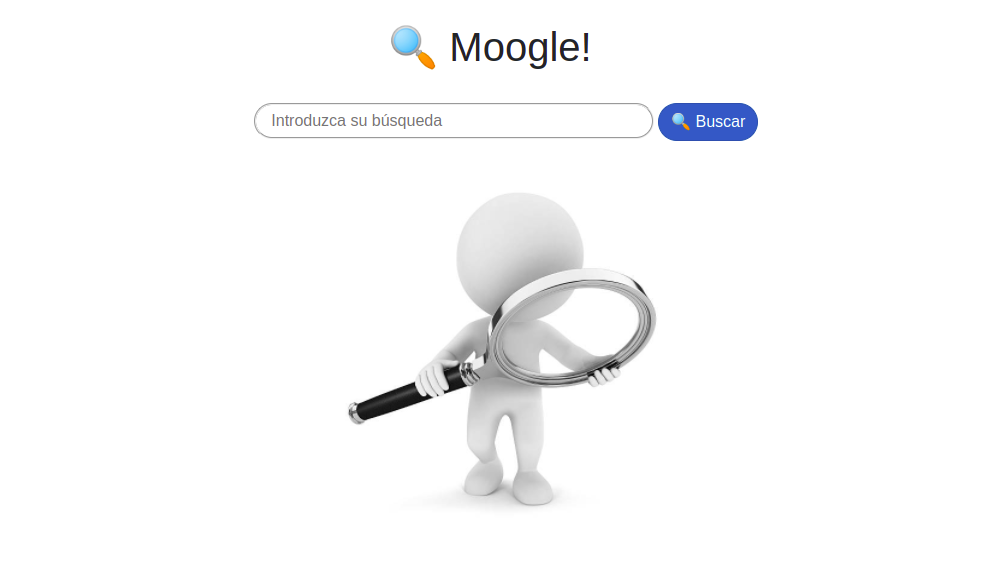
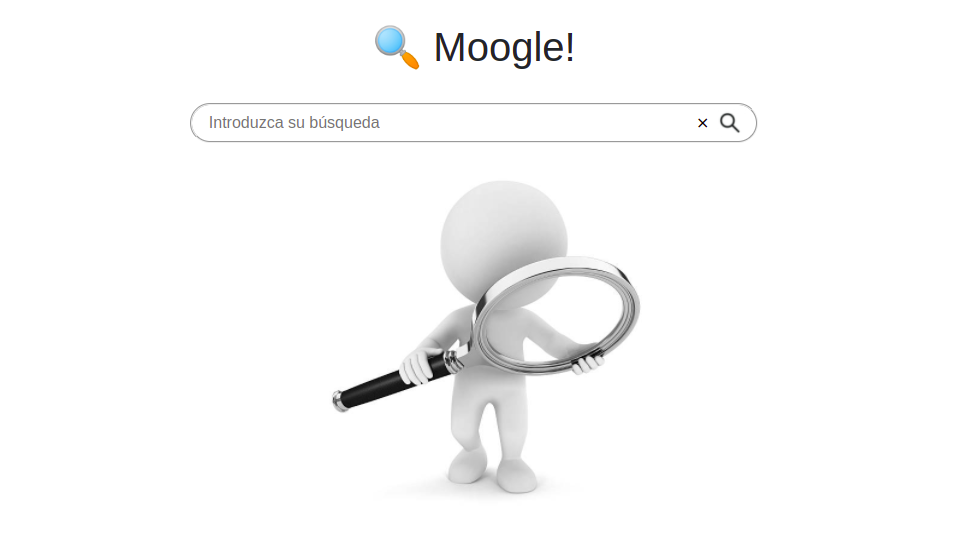
Interfaz mejorada

Changed region(s): [[0.3326, 0.3852, 0.6653, 0.9185], [0.2117, 0.1778, 0.7862, 0.2667], [0.3931, 0.0296, 0.6048, 0.1481]]

diff --git a/MoogleServer/wwwroot/css/site.css b/MoogleServer/wwwroot/css/site.css
@@ -9,16 +9,48 @@ h1:focus {
     outline: none;
 }
 
-
+.search{
+    margin-top: 24px;
+    margin-bottom: 24px;
+    border-top-left-radius: 50px; 
+    border-bottom-left-radius: 50px; 
+    width:500px;
+    height:40px;
+    text-indent: 3%; 
+    border-left: groove 2px;
+    border-top: groove 2px;
+    border-bottom: groove 2px;
+    border-right: groove 0px;
+    outline: none;
+}
 
 a, .btn-link {
     color: #0071c1;
 }
 
-.btn-primary {
-    color: #fff;
-    background-color: #1b6ec2;
-    border-color: #1861ac;
+.btn-search{
+    background-color: #fff;
+    border-top-right-radius: 50px;
+    border-bottom-right-radius: 50px; 
+    margin-top:24px;
+    margin-bottom:24px; 
+    border-left: 0px;
+    border-top: groove 2px;
+    border-bottom: groove 2px;
+    border-right: groove 2px;
+    height:40px;
+    width: 50px;
+}
+
+.btn-eliminate{
+    background-color: #fff;
+    margin-top: 24px;
+    margin-bottom: 24px;  
+    border-left: 0px;
+    border-top: groove 2px;
+    border-bottom: groove 2px;
+    border-right: 0px;
+    width: 18px;
 }
 
 .content {

diff --git a/MoogleEngine/Document_Result.cs b/MoogleEngine/Document_Result.cs
@@ -213,14 +213,28 @@ public class Document_Result
                 {
                     int cant_words_snippet = 0;
                     StringBuilder sb = new StringBuilder();
-                    for (int w = j; w < linea.Length; w++)
+                    bool nextline = linea_ind < doc.Length - 1;
+                    int pos = j;
+                    //Determinamos si es necesario coger palabras anteriores a la posicion indicada
+                    if(nextline)
+                    {
+                        if(doc[linea_ind+1]=="" && linea.Length - j < 20) 
+                        {
+                            pos=(j < 5) ? 0 : j - 5;
+                        }
+                    }
+                    else if(linea.Length - j < 20)
+                    {
+                        pos=(j < 5) ? 0 : j-5;
+                    }
+                    for (int w = pos; w < linea.Length; w++)
                     {
                         sb.Append(linea[w] + " ");
                         cant_words_snippet++;
                         if (cant_words_snippet == Snippet_len) break;
                     }
                     //Si no hemos alcanzado la longitud de nuestro snippet vamos a la linea siguiente
-                    if (cant_words_snippet < Snippet_len && linea_ind < doc.Length - 1)
+                    if (cant_words_snippet < Snippet_len && nextline)
                     {
                         int ind = linea_ind + 1;
                         if (doc[linea_ind + 1] == "" && linea_ind < doc.Length - 2)
@@ -238,7 +252,7 @@ public class Document_Result
                     //Guardamos el snippet
                     addSnippet[i] = sb.ToString();
                     addposSnippet[i] = linea_ind;
-                    //Comprobamos el proximi indice
+                    //Comprobamos el proximo indice
                     i++;
                 }
                 if(i==Snippetwords.Count) break; 

diff --git a/Project Report.md b/Project Report.md
@@ -10,7 +10,7 @@
 
 ### Algoritmos de Búsqueda
 
-La búsqueda esta basada en el modelo vectorial de recuperación de la información *SRI*, utilizando el *TF-IDF* (frecuencia de término - frecuencia inversa de documento), el cual expresa la relevancia de una palabra asociada a un documento en una determinada colección, sumado a la *Similitud del Coseno*, método mediante el cual se asigna un *Score* a cada documento y se establece un ranking de resultados para el usuario.
+La búsqueda está basada en el modelo vectorial de recuperación de la información *SRI*, utilizando el *TF-IDF* (frecuencia de término - frecuencia inversa de documento), el cual determina la relevancia de una palabra asociada a un documento en una determinada colección, sumado a la *Similitud del Coseno*, método mediante el cual se asigna un *Score* a cada documento y se establece un ranking de resultados para el usuario.
 
 ### Operadores
 
@@ -25,7 +25,7 @@ El proyecto cuenta con varios operadores para mejorar la búsqueda del usuario:
 
 ### Sugerencia
 
-Para brindar una mayor exactitud a la búsqueda, el proyecto cuenta con un corrector de palabras, el cual se encarga de dar una sugerencia al usuario en caso de que la búsqueda no sea del todo correcta para los datos almacenados.
+Para brindar una mayor exactitud en la búsqueda, el proyecto cuenta con un corrector de palabras, el cual se encarga de dar una sugerencia al usuario en caso de que la búsqueda no coincida con los datos almacenados.
 
 ### Resultados de la Búsqueda
 
@@ -33,22 +33,22 @@ Una vez rankeados los documentos, se le muestra al usuario una lista de los mism
 
 ### Ejecutando el proyecto
 
-- Debes colocar los documentos en los que quieres desarrollar la búsqueda, en la carpeta
+- Debe colocar los documentos en los que quiere desarrollar la búsqueda, en la carpeta
 `Content`, en formato `.txt`.  
 
-- Este proyecto está desarrollado para la versión objetivo de .NET Core 6.0. Para ejecutarlo solo te debes parar en la carpeta del proyecto y ejecutar en la terminal de Linux:
+- Este proyecto está desarrollado para la versión objetivo de .NET Core 6.0. Para ejecutarlo debe ir a la ruta en la que está ubicada el proyecto y ejecutar en la terminal de Linux:
 
 ```bash
 make dev
 ```
 
-- Si estás en Windows, debes poder hacer lo mismo desde la terminal del WSL (Windows Subsystem for Linux), en caso contrario puedes ejecutar:
+- Si está en Windows, debe poder hacer lo mismo desde la terminal del WSL (Windows Subsystem for Linux), en caso contrario puede ejecutar:
 
 ```bash
 dotnet watch run --project MoogleServer
 ```
 
-## Implementación Moogle Engine
+## Implementación MoogleEngine
 
 Estructura de la biblioteca de clases `MoogleEngine`.
 
@@ -56,8 +56,8 @@ Estructura de la biblioteca de clases `MoogleEngine`.
 
 Al iniciar el servidor, se llama al método `Index_Corpus` de la clase `Moogle`, el cual se encarga de leer los documentos, y crear un objeto de la clase `Document` para cada documento de la carpeta `Content`:
 - La clase `Document` se encarga de procesar el texto contenido dentro del documento, separar por espacios y eliminar los signos de puntuación (mediante el método `Sign_Puntuation`).
-- Para eliminar los signos de puntuación, se recorre la palabra desde el principio hasta el final y se guarda la posición del primer caracter alfanumérico, se realiza el mismo procedimiento en sentido inverso y se devuelve la porción de string determinada por los dos indices obtenidos. 
-- En la clase `Corpus_Data` se almacena la información de cada una de las palabras en el diccionario `Vocabulary` que tiene como valor un objeto de la clase `DataStructure` donde se guarda: un arreglo con el peso ,un arreglo de listas de indices con las posiciones de la palabra en cada documento y la cantidad de documentos que contienen la palabra (estructurando los vectores documento).
+- Para eliminar los signos de puntuación, se recorre la palabra desde el principio hasta el final y se guarda la posición del primer *char* alfanumérico, se realiza el mismo procedimiento en sentido inverso y se devuelve la porción de string determinada por los dos índices obtenidos. 
+- En la clase `Corpus_Data` se almacena la información de cada una de las palabras en el diccionario `Vocabulary` que tiene como valor un objeto de la clase `DataStructure` donde se guarda: un arreglo con el peso ,un arreglo de listas de índices con las posiciones de la palabra en cada documento y la cantidad de documentos que contienen la palabra (estructurando los vectores documento).
 - Inicialmente se guarda en `Vocabulary` la frecuencia de la palabra y la posición en el documento, comparando dicha frecuencia con la frecuencia máxima del documento. 
 - Una vez terminado este proceso se calcula el *TF-IDF* de las palabras del corpus, mediante el método `Tf_IdfDoc` de la clase `Document` y se almacenan estos valores en `Vocabulary`.
 
@@ -69,21 +69,21 @@ Cuando el usuario introduce una nueva *Query* se crea un objeto de la clase `Que
 
 Dentro de la clase `QueryClass`, se toma el string que contiene a la *Query* y se procede a separar por espacios y a eliminar los signos de puntuación que no pertenezcan a la identificación de un operador:
 - Se identifican los operadores de búsqueda mediante el método `Operators`. 
-- Se agregó al proyecto un nuevo operador de búsqueda: *Búsqueda Literal*, cuya explicación aparece en la descripción del proyecto.
-- Para el operador de cercanía se consideró la distancia entre `A~B~C` como la mínima ventana del texto que contiene a `A`, `B` y `C` en cualquier orden.
+- Se agrega al proyecto un nuevo operador de búsqueda: *Búsqueda Literal*, cuya explicación aparece en la descripción del proyecto.
+- Para el operador de cercanía se considera la distancia entre `A~B~C` como la mínima ventana del texto que contiene a `A`, `B` y `C` en cualquier orden.
 - Una vez identificados los operadores se procede a comprobar la existencia de las palabras de la *Query* en el corpus, en caso contrario, se llama al método `Suggestion`. 
 
 ### Sugerencia
 
-- En el método `Suggestion` se llama al método `Suggestion_word`, donde se busca la palabra del corpus con la mínima cantidad de cambios con respecto a la palabra para la cual se quiere obtener la sugerencia, para ello se emplea la *Distancia de Levenstein*, la cual consiste en dar un costo a las operaciones que permiten convertir una palabra en otra: *Eliminación*, *Inserción* y *Sustitución* de un caracter. 
+- En el método `Suggestion` se llama al método `Suggestion_word`, donde se busca la palabra del corpus con la mínima cantidad de cambios con respecto a la palabra para la cual se quiere obtener la sugerencia, para ello se emplea la *Distancia de Levenstein*, la cual consiste en dar un costo a las operaciones que permiten convertir una palabra en otra: *Eliminación*, *Inserción* y *Sustitución* de una letra. 
 - La implementación de la *Distancia de Levenstein* está basada en un algoritmo de programación dinámica (donde en cada estado se decide entre la operación con menor costo), además tiene un grupo de modificaciones que otorgan un menor costo a los errores ortográficos más comunes.  
 - En caso de obtener dos palabras con la misma cantidad de cambios, nos quedamos con la que mayor peso tenga entre todos los documentos del Corpus.
 - Una vez identificada la palabra, en el método `Suggestion` se busca la porción del string `Suggestion_Query` (inicialmente tiene el mismo valor que el string de la *Query*), que contiene la palabra para la cual queremos dar la sugerencia y se sustituye por la nueva palabra.
 
 ### Raíces y Sinónimos
 
-Para dar mejores resultados en la búsqueda al usuario se identifican las palabras que posean las mismas raíces o el mismo significado que las de la *Query*:
-- En la clase `Snowball`, esta implementado un algoritmo que se en carga de realizar el stemming en español, el cual se apoya en tres reglas y un conjunto de pasos y sufijos  mediante los cuales se obtiene el lexema aproximado de la palabra.
+Para obtener mejores resultados en la búsqueda se identifican las palabras que posean las mismas raíces o el mismo significado que las de la *Query*:
+- En la clase `Snowball`, está implementado un algoritmo que se encarga de realizar el stemming en español, el cual se apoya en tres reglas y un conjunto de pasos y sufijos  mediante los cuales se obtiene el lexema aproximado de la palabra.
 - Para hallar los sinónimos se emplea un diccionario de sinónimos para el español, estructurado en la lista `Synonymous` de la clase `Corpus_Data`, la cual tiene una lista de arreglos de string, donde cada arreglo contiene un grupo de palabras con similar significado.
 
 ### TF-IDF Query
@@ -101,7 +101,7 @@ Por cada documento se crea un objeto `Document_Result` y se analizan los requisi
 
 Para dar el ranking de los documentos se emplea *Similitud del Coseno*, mencionada en la descripción del proyecto:
 - En el método `SimVectors` se comparan los datos del vector documento (correspondiente al documento analizado) almacenados en el diccionario `Vocabulary` de la clase `Corpus_Data`, con los valores del vector consulta almacenados en  el diccionario `Words_Query` de la clase `QueryClass`. 
-- En caso de que el documento no contenga ninguna de las palabras de `Words_Query`, realizamos el procedimiento anterior pero ahora empleamos los datos del diccionario `Words_Stemming_Syn`, si los resultados son positivos sumamos al *Score* del documento el mínimo valor de double (con esto garantizamos que los documentos que solo poseen palabras con la misma raíz y el mismo significado que las de la *Query* siempre sean devueltos por debajo de los que contienen al menos una palabra de la *Query*).
+- En caso de que el documento no contenga ninguna de las palabras de `Words_Query`, realizamos el procedimiento anterior pero ahora empleamos los datos del diccionario `Words_Stemming_Syn`, si los resultados son positivos se suma al *Score* del documento el mínimo valor de double (con esto garantizamos que los documentos que solo poseen palabras con la misma raíz y el mismo significado que las de la *Query* siempre sean devueltos por debajo de los que contienen al menos una palabra de la *Query*).
 - Luego se calcula el *Score* del documento.
 
 ### Influencia de los Operadores en la Búsqueda
@@ -117,13 +117,13 @@ Se determina si el documento cumple con los parámetros de los operadores median
 
 ### Resultados Obtenidos
 
-- Una vez concluida la búsqueda, se comprueba que la sugerencia hecha al usuario es válida y se construye el objeto `SearchResult` que devuelve el método `Query` de la clase `Moogle`, mediante una lista de objetos `SearchItem`, que adicionalmente, contiene un arreglo con las líneas del *Snippet*, las posiciones de dichas líneas en el documento y la lista de palabras de la *Query* que no fueron encontradas en el documento.
+- Una vez concluida la búsqueda, se comprueba que la sugerencia hecha al usuario es válida y se construye el objeto `SearchResult` que devuelve el método `Query` de la clase `Moogle`, mediante una lista de objetos `SearchItem`, que contiene un arreglo con las líneas del *Snippet*, las posiciones de dichas líneas en el documento y la lista de palabras de la *Query* que no fueron encontradas en el documento.
 
 ### Implementación para la mínima distancia entre un grupo de palabras
 
 Para determinar la mínima distancia entre una lista de palabras se utiliza el algoritmo *Sliding Window*, empleando las posiciones de las palabras en el documento, guardadas en el diccionario `Vocabulary` de la clase `Corpus_Data`, además de los métodos agrupados en la clase `Distance_Word`.
-- En el método `List_Pos_Words` se crea un arreglo de tuplas por cada palabra que contiene el indice de la palabra en la lista de palabras y la posición del documento, mediante el método `BuildTuple`, luego ordenamos dicho arreglo por el valor de las posiciones de las palabras mediante el método `Sorted` y determinamos la cantidad de ocurrencias de la palabra en la lista de palabras, mediante el método `Ocurrence_word`.
-- En el método `Search_Distance_Words` se utiliza el arreglo de tuplas obtenido en el paso anterior y se emplea una cola en la que se van introduciendo los elementos del array hasta que todas las palabras estén contenidas en la cola, una vez hecho esto se intenta sacar de la cola sin que se deje de cumplir que todas las palabras están contenidas, terminado este proceso calculamos la distancia entre las palabras que se encuentran en los extremos de la cola, comparamos el valor con el que teníamos calculado, nos quedamos con el mínimo y volvemos a repetir el procedimiento.
+- En el método `List_Pos_Words` se crea un arreglo de tuplas por cada palabra que contiene el índice de la palabra en la lista de palabras y la posición del documento, mediante el método `BuildTuple`, luego ordenamos dicho arreglo por el valor de las posiciones de las palabras mediante el método `Sorted` y determinamos la cantidad de ocurrencias de la palabra en la lista de palabras, mediante el método `Ocurrence_word`.
+- En el método `Search_Distance_Words` se utiliza el arreglo de tuplas obtenido en el paso anterior y se emplea una cola en la que se van introduciendo los elementos del array hasta que todas las palabras estén contenidas en la cola, una vez hecho esto se intenta sacar de la cola sin que se deje de cumplir que todas las palabras están contenidas, terminado este proceso se calcula la distancia entre las palabras que se encuentran en los extremos de la cola, se compara el valor con el que se tenía calculado, se guarda el mínimo y se vuelve a repetir el procedimiento.
 
 ```cs
 //Recorremos el array buscando la minima ventana q contenga a todas las palabras
@@ -173,10 +173,10 @@ for (int i = 0; i < Pos_words_Sorted.Length; i++)
 
 ### Implementación para la Búsqueda Literal
 
-Para determinar si en el documento existe una ventana de texto exactamente con las palabras de la lista, utilizamos los métodos de la clase `Distance_Word`.
-- Se emplea el método `List_Pos_Words`, descrito anteriormente, pero en este caso se tiene en cuenta la posible presencia de los comodines `?` en la lista de palabras, se recorre la lista de palabras y se lleva un contador con la cantidad de comodines, ahora en cada momento de formar la tupla se resta la cantidad de comodines al indice y a la posición de la palabra.
-- Se recorre el arreglo de tuplas, mediante el método `Distance_Literal`, llevando un contador que muestra el indice de la palabra que corresponde en cada momento. Mientras la posición sea la misma significa que la palabra es igual a la anterior, por lo que almacenamos los indices en una lista, si nos encontramos una posición diferente comprobamos que la nueva posición sea consecutiva con la anterior y que alguno de los indices almacenados en la lista coincida con el de la palabra que corresponde, en caso afirmativo aumentamos en uno el indice de la palabra a buscar y repetimos el procedimiento, en caso contrario reiniciamos el indice de la palabra a buscar.
-- Si en algún momento el indice de la palabra a buscar coincide con la última palabra guardamos la posición donde encontramos la porción de texto correspondiente.
+Para determinar si en el documento existe una ventana de texto exactamente con las palabras de la lista, se utilizan los métodos de la clase `Distance_Word`.
+- Se emplea el método `List_Pos_Words`, descrito anteriormente, pero en este caso se tiene en cuenta la posible presencia de los comodines `?` en la lista de palabras, se recorre la lista de palabras y se lleva un contador con la cantidad de comodines, ahora en cada momento de formar la tupla se resta la cantidad de comodines al índice y a la posición de la palabra.
+- Se recorre el arreglo de tuplas, mediante el método `Distance_Literal`, llevando un contador que muestra el índice de la palabra que corresponde en cada momento. Mientras la posición sea la misma significa que la palabra es igual a la anterior, por lo que se almacenan los índices en una lista, si se encuentra una posición diferente se comprueba que la nueva posición sea consecutiva con la anterior y que alguno de los índices almacenados en la lista coincida con el de la palabra que corresponde, en caso afirmativo se aumenta en uno el índice de la palabra a buscar y se repite el procedimiento, en caso contrario se reinicia el índice de la palabra a buscar.
+- Si en algún momento el índice de la palabra a buscar coincide con la última palabra se guarda la posición donde se encontró la porción de texto correspondiente.
 
 ```cs
 pubic static int Distance_Literal(List<string> words,Document document)
@@ -217,19 +217,19 @@ pubic static int Distance_Literal(List<string> words,Document document)
 }
 ```
 
-## Implementación Moogle Server 
+## Implementación MoogleServer 
 
-Se añadió al proyecto una nueva página `Doc.razor`, donde se le brinda al usuario la opción de poder visualizar el documento directamente desde el navegador.
+Se añade al proyecto una nueva página `Doc.razor`, donde se le brinda al usuario la opción de poder visualizar el documento directamente desde el navegador.
 
 ### AutoCompletar
 
-- Para el autocompletamiento se añadió el evento `bind:event="oninput"` el cual permite actualizar el valor del string `query` cada vez que el usuario teclea o borra un nuevo carácter
-- Se empleó el evento `onkeyup` que llama al método `Press`, el cual identifica la última porción de palabra tecleada por el usuario y llama al método `AutoComplete` de la clase `Server` el cual devuelve como máximo las 5 palabras del corpus más cercanas a completar el texto escrito por el usuario.
+- Para el autocompletamiento se añade el evento `bind:event="oninput"` el cual permite actualizar el valor del string `query` cada vez que el usuario teclea o borra un nuevo carácter
+- Se emplea el evento `onkeyup` que llama al método `Press`, el cual identifica la última porción de palabra tecleada por el usuario y llama al método `AutoComplete` de la clase `Server` el cual devuelve como máximo las 5 palabras del corpus más cercanas a completar el texto escrito por el usuario.
 - Una vez obtenidas las palabras para autocompletar se utiliza un `datalist` para mostrárselas al usuario.
 
 ### Suggestion
 
-- Se utilizó el evento `onclick` que llama al método `Suggestion` el cual permite realizar una nueva consulta con la *Query* `suggestion`.
+- Se utiliza el evento `onclick` que llama al método `Suggestion` el cual permite realizar una nueva consulta con la *Query* `suggestion`.
 
 ### Visualizar el Documento
 
